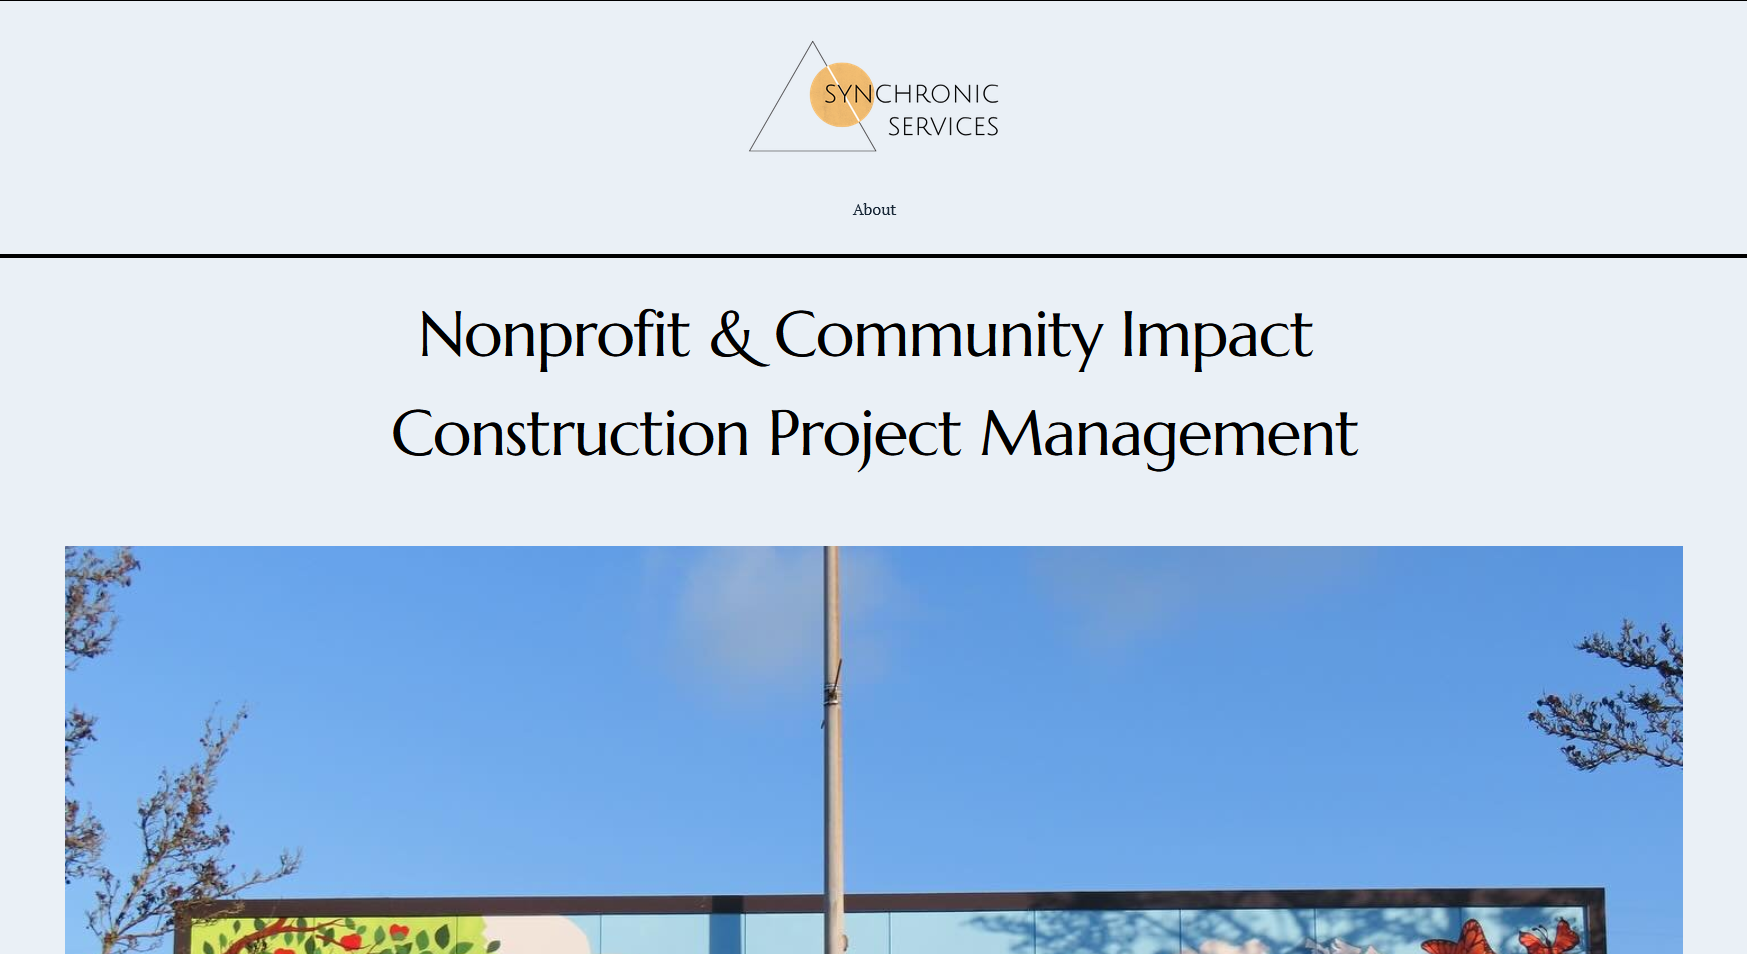
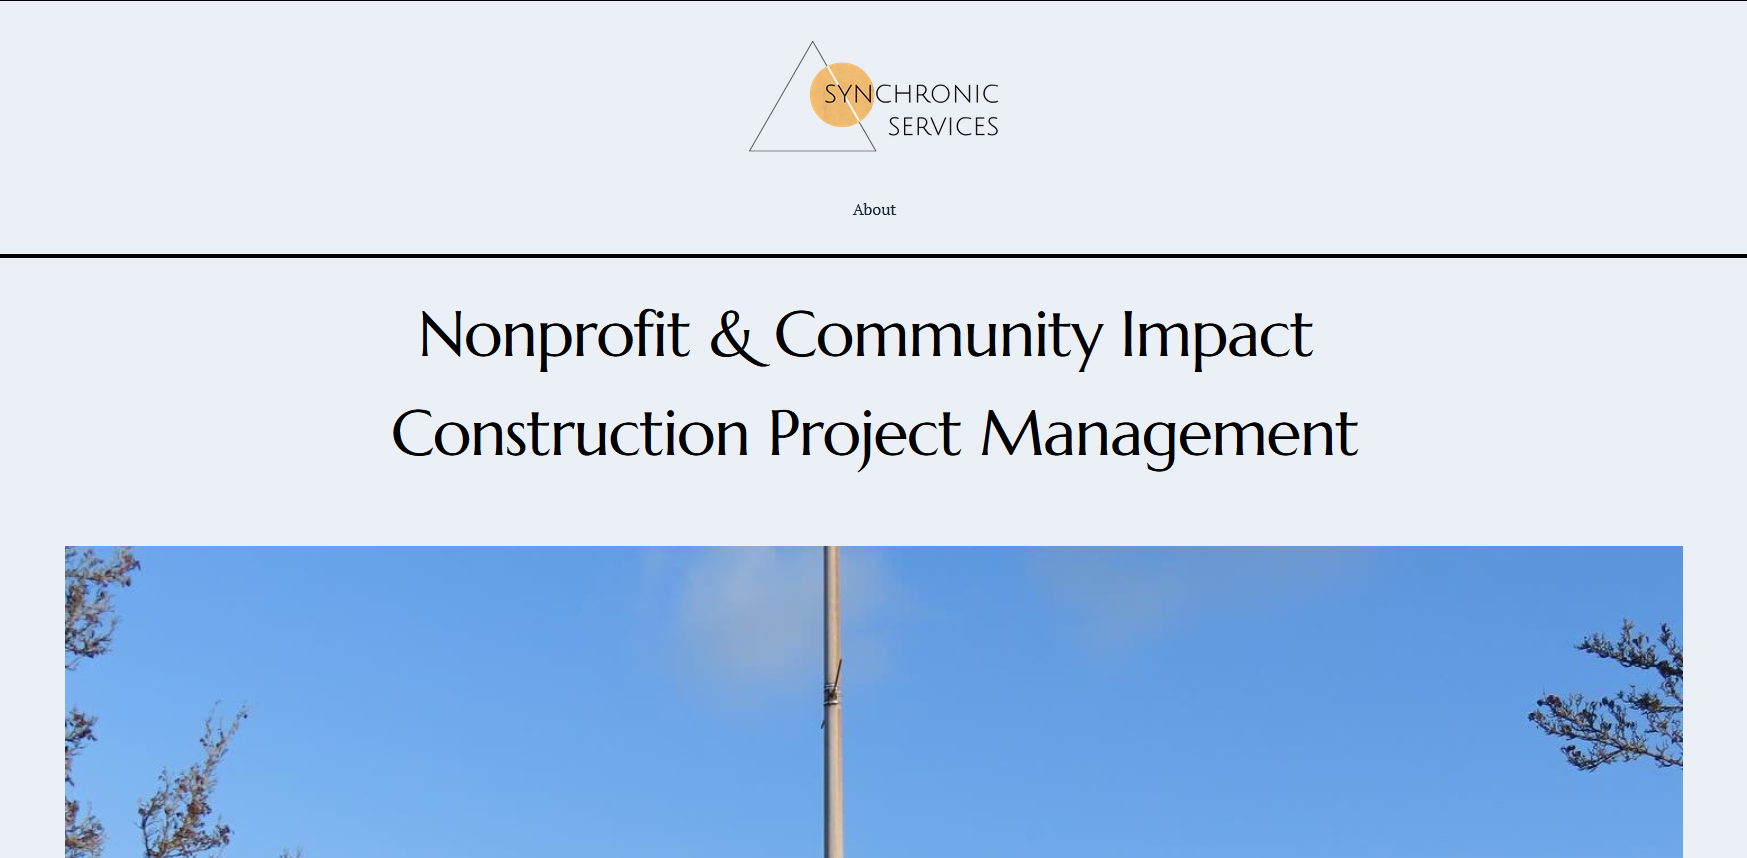
tweaked the synchronic case study

diff --git a/synchronic_case_study.html b/synchronic_case_study.html
@@ -24,7 +24,7 @@
 
       <div class="card-body p-5">
 
-        <h1 class="card-title text-center mb-4">
+        <h1 class="card-title text-center mb-3">
           Synchronic Services Website Redesign
         </h1>
 
@@ -324,7 +324,7 @@
 
         <p>
           Once approved, the design was developed into a fully responsive
-          website using HTML, CSS, Bootstrap, and JavaScript.
+          website using HTML, CSS, GSAP, and JavaScript.
         </p>
 
         <div class="row mt-4">
